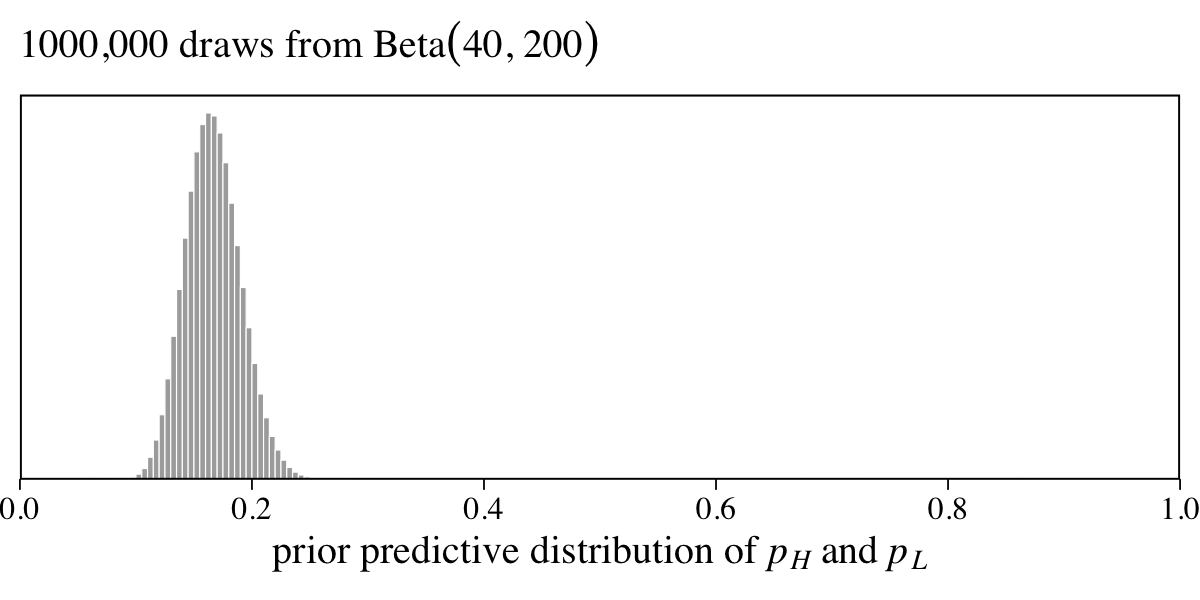
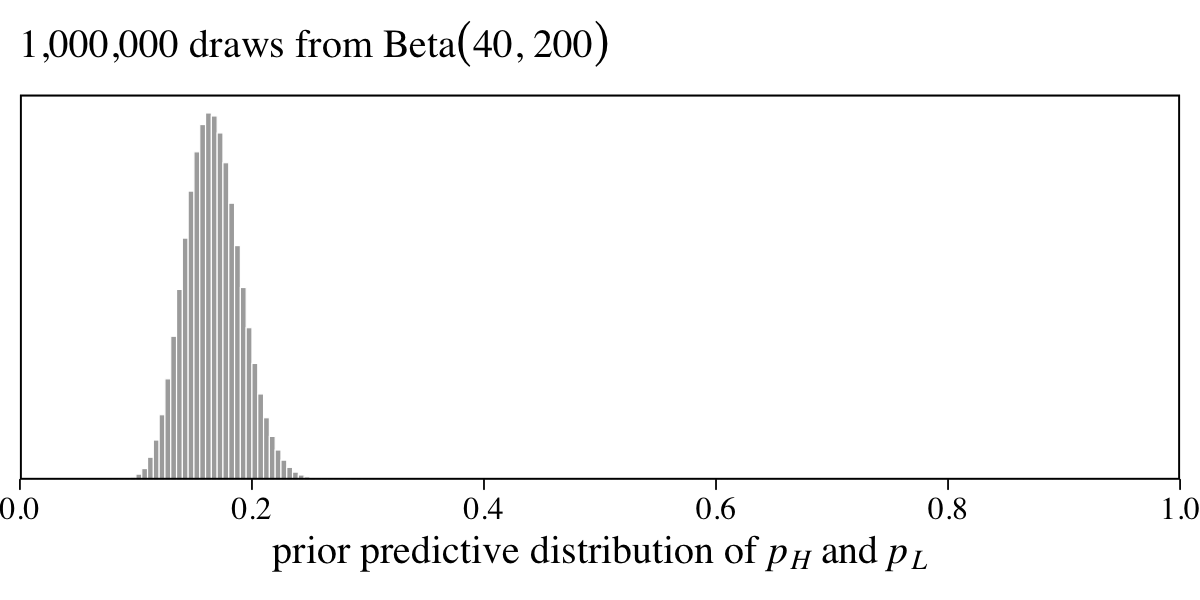
1,000,000 not 1000,000

Changed region(s): [[0.0308, 0.03, 0.5242, 0.12]]

diff --git a/in_the_works/16.4.2.md b/in_the_works/16.4.2.md
@@ -1,7 +1,7 @@
 Ch. 16 Generalized Linear Madness
 ================
 A Solomon Kurz
-2021-02-10
+2021-02-11
 
 # Generalized Linear Madness
 
@@ -367,7 +367,7 @@ tibble(p = rbeta(n = 1e6, shape1 = 40, shape2 = 200)) %>%
   scale_x_continuous(expression(prior~predictive~distribution~of~italic(p[H])~and~italic(p[L])), 
                      breaks = 0:5 / 5, expand = c(0, 0), limits = c(0, 1)) +
   scale_y_continuous(NULL, breaks = NULL, expand = expansion(mult = c(0, 0.05))) +
-  labs(subtitle = expression("1000,000 draws from Beta"*(40*", "*200)))
+  labs(subtitle = expression("1,000,000 draws from Beta"*(40*", "*200)))
 ```
 
 <img src="16.4.2_files/figure-gfm/unnamed-chunk-10-1.png" width="480" style="display: block; margin: auto;" />
@@ -681,7 +681,7 @@ p <-
 str(p)
 ```
 
-    ##  num [1:21, 1:42] 28.7 40.3 32.4 28.3 50.5 ...
+    ##  num [1:21, 1:42] 20.9 48.7 41.9 39 26.1 ...
     ##  - attr(*, "dimnames")=List of 2
     ##   ..$ : NULL
     ##   ..$ : NULL
